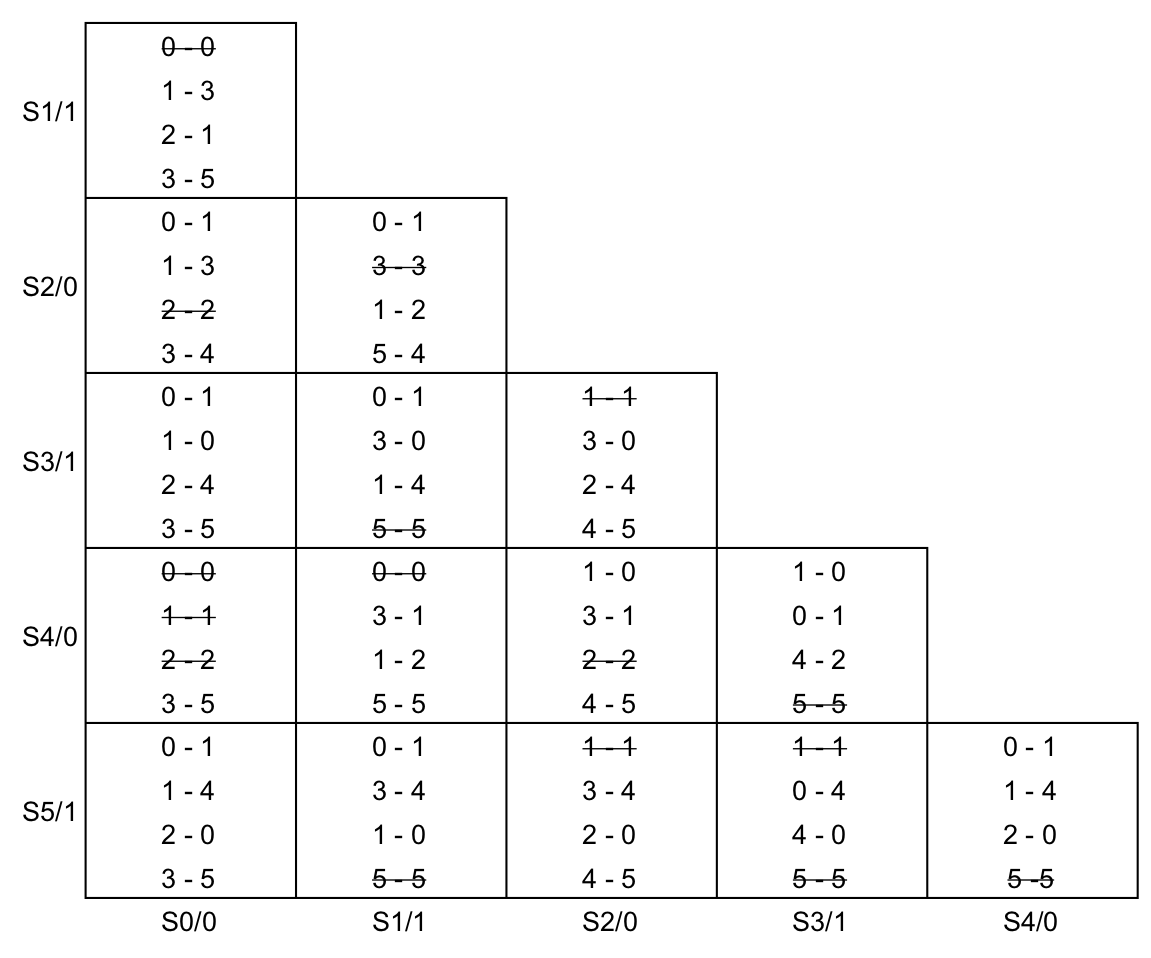
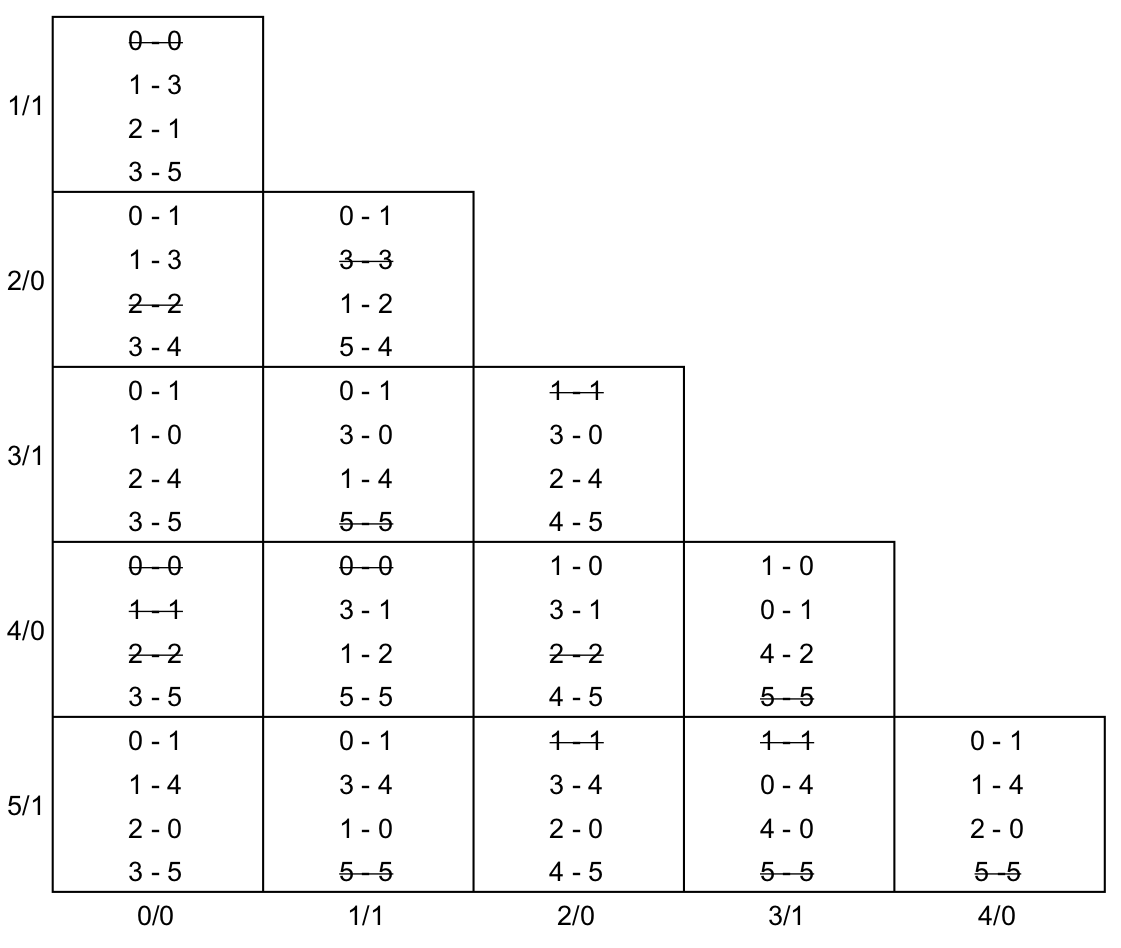
Improvement of FSM minimization.

diff --git a/content/digitais/fsmStateReduction.md b/content/digitais/fsmStateReduction.md
@@ -1,6 +1,6 @@
 Title: Simplificação de FSM
 Date: 2018-09-25 14:22
-Modified: 2018-09-26 18:02
+Modified: 2018-09-26 22:49
 Category: sistemas digitais
 Tags: sistemas digitais, fsm, simplificação, otimização
 Slug: fsmstatereduction
@@ -266,7 +266,7 @@ Se fizermos a busca novamente, os estados S4 e S6 agora são equivalentes pois a
 <br/>
 O diagrama de transição de estados minimizado pode ser visto na figura ao lado. Os estados S7, S9, S10, S12, S13 e S14 são representados pelo Sa, S4 e S6 pelo Sb e S8 e S11 pelo Sc.
 
-O método de análise da tabela de transição de estados se baseia na busca exaustiva por estados equivalentes. É fácil perceber que, conforme a tabela cresce, ficará mais difícil visualizar os estados equivalentes.
+O método de análise da tabela de transição de estados se baseia na busca exaustiva por estados equivalentes. É fácil perceber que, conforme a tabela cresce, ficará mais difícil visualizar os estados equivalentes. Além disso, o método não garante a menor quantidade de estados possível pois é baseado em estados e não em grupos de estados (veja o primeiro exemplo da próxima seção).
 
 <div style="border: 0px; overflow: auto;width: 100%;"></div>
 
@@ -288,9 +288,13 @@ Quando estiver confortável com a construção da matriz, você poderá desenhá
 Após obter a tabela de implicação, devemos preencher as células. Cada célula terá $2^b$ linhas, onde $b$ é o número de bits da entrada. E.g. se a entrada for de 1 bit, cada célula tem 2 linhas; se a entrada for de 2 bits, cada célula tem 4 linhas. Cada linha da entrada corresponde às transições daqueles estados para aquela entrada.
 
 <img src='{filename}/images/sd/sdfsmoptconstcel.png' width="45%" align="right" style="padding-left:5%" />
-Na figura podemos ver o exemplo do preenchimento para duas células, ambas na linha do $S_3$ e coluna do $S_4$. Para simplificar o preenchimento, usamos somente o número do estado, mas sinta-se a vontade para escrever o nome completo (especialmente útil se os nomes dos estados não forem numerados). Na célula na esquerda na figura, a entrada tem 1 bit, portanto temos duas linhas, uma para a entrada 0 e outra para a entrada 1. Já na célula a direita na figura, a entrada tem 2 bits, portanto temos 4 linhas, para as entradas 00, 01, 10 e 11.
+Na figura podemos ver o exemplo do preenchimento para duas células, ambas na linha do S3 e coluna do S4. Para simplificar o preenchimento, usamos somente o número do estado, mas você pode escrever o nome completo do estado (especialmente útil se os nomes dos estados não forem numerados).
 
-Os números em cada linha correspondem a transição que o estado fará para cada entrada. No exemplo a esquerda na figura, podemos assumir que, para uma determinada entrada e estando em $S_3$ ou em $S_4$, a máquina transicionará para o estado $S_0$ ou $S_1$. Na mesma situação mas para a outra entrada, a máquina transicionará para o estado $S_2$ ou $S_3$. Mas como eu sei qual entrada? Não é preciso saber para qual entrada, apenas que as transições da mesma linha, separadas por `-`, são para a mesma entrada. De fato, alguns projetistas preferem ordenar as transições em ordem crescente para facilitar a busca por estados equivalentes. E.g. (linha superior / linha inferior) 3-2/1-2 é o mesmo que 1-2/2-3, mas ordenado. Fica a seu critério decidir a melhor forma de organizar sua tabela de implicação, mas lembre-se que cada linha corresponde a exatamente dois estados separados por `-`, para os quais a máquina de estados transicionará quando houver a mesma entrada.
+Na célula na esquerda na figura, a entrada tem 1 bit, portanto temos duas linhas, uma para a entrada 0 e outra para a entrada 1. Nesta célula, a máquina é de Mealy com saída de 1 bit, que pode ser vista representada nas transições.
+
+Já na célula a direita na figura, a entrada tem 2 bits, portanto temos 4 linhas para as entradas 00, 01, 10 e 11. A máquina representada é de Moore e também tem um bit só de saída, que nesse caso é representado no estado e não na transição.
+
+Os números em cada linha correspondem a transição que o estado fará para cada entrada (e à saída referente àquela transição no caso de uma máquina de Mealy). No exemplo a esquerda na figura, podemos assumir que, para uma determinada entrada e estando em S3 ou em S4, a máquina transicionará para o estado S0/0 ou S1/0 (note que em ambas as transições a saída é 0). Na mesma situação mas para a outra entrada, a máquina transicionará para o estado S2/0 ou S3/1. Mas como eu sei qual entrada? Não é preciso saber para qual entrada, apenas que as transições da mesma linha, separadas por `-`, são para a mesma entrada. De fato, alguns projetistas preferem ordenar as transições em ordem crescente para facilitar a busca por estados equivalentes. E.g. (linha superior / linha inferior) 3-2/1-2 é o mesmo que 1-2/2-3, mas ordenado. Fica a seu critério decidir a melhor forma de organizar sua tabela de implicação, mas lembre-se que cada linha corresponde a exatamente dois estados separados por `-`, para os quais a máquina de estados transicionará quando houver a mesma entrada.
 
 É de praxe também assinalar os estados que produzem saídas diferentes, pois eles não podem ser equivalentes. Neste caso, coloque uma `/` no índice de coluna e linha (caso a máquina for de Moore) ou na transição dentro da célula (caso a máquina for de Mealy). Isto ficará mais claro no exemplo.
 
@@ -313,44 +317,58 @@ Você não precisa analisar células onde todas as linhas tenham sido riscadas n
 
 Quando você terminar este processo, as células que você não eliminou representam **classes de equivalência**. Uma classe de equivalência é um grupo de estados que são equivalentes e, consequentemente, podem ser representados por um único estado. E.g. se a célula da linha 3 coluna 4 não foi eliminada, os estados S3 e S4 são equivalentes.
 
-## Exemplo 1/2
+## Exemplo 1/3 - Moore simples
 
-Suponha a mesma máquina de estados usada como exemplo no método de análise da tabela de transição de estados, mostrada na figura. Trata-se de uma máquina de Mealy que reconhece 0011 ou 1001 sem sobreposição.
+Este exemplo é de uma máquina de Moore que detecta uma paridade ímpar considerando todas as entradas que já passaram pela máquina. O diagrama e a tabela de transição de estados podem ser vistos abaixo:
 
-![FSM em forma de árvore]({filename}/images/sd/sdfsmopt2.png)
+<table class="tg" align="left">
+  <tr>
+    <th class="tg-baqh" colspan="3">Tabela E1</th>
+  </tr>
+  <tr>
+    <td class="tg-zlqz" rowspan="2">E.A.</td>
+    <td class="tg-zlqz" colspan="4">P.E.</td>
+  </tr>
+  <tr>
+    <td class="tg-zlqz">0</td>
+    <td class="tg-zlqz">1</td>
+  </tr>
+  <tr>
+    <td class="tg-baqh">A/0</td>
+    <td class="tg-baqh">A</td>
+    <td class="tg-baqh">B</td>
+  </tr>
+  <tr>
+    <td class="tg-baqh">B/1</td>
+    <td class="tg-baqh">B</td>
+    <td class="tg-baqh">C</td>
+  </tr>
+  <tr>
+    <td class="tg-baqh">C/0</td>
+    <td class="tg-baqh">C</td>
+    <td class="tg-baqh">B</td>
+  </tr>
+</table>
+<img src='{filename}/images/sd/sdfsmoptex1diag.png' width="13%" align="left" style="padding-left:5%; padding-right:5%"/>
+Tente minimizar esta máquina usando o método de análise da tabela de transição. É possível encontrar algum estado equivalente? Perceba que os estados A e C são equivalentes, mas não é possível perceber isto apenas com a tabela de transição de estados.
 
-A máquina tem 15 estados, portanto temos uma matriz 15x15. A tabela de implicação, já com os valores das transições preenchidos e com as transições s-s riscadas, pode ser vista na figura abaixo. Isto corresponde à construção da tabela de implicação e à execução do passo 1 do algoritmo.
+<div style="border: 0px; overflow: auto;width: 100%;"></div>
+<img src='{filename}/images/sd/sdfsmoptex1a.png' width="55%" align="right" style="padding-left:5%"/>
+Vamos construir a tabela de implicação para verificar. Na figura ao lado, podemos ver: (esquerda) a tabela de implicação construída e com os estados (note que é uma máquina de Moore, então as saídas são representadas nos estados); (meio) a tabela de implicação com as linhas de acordo com a tabela de transição de estados; e (direita) a versão com a linha B-B já riscada, pois para esta entrada, a máquina transiciona para o mesmo estado independententemente de qual estado esteja. Isto equivale à construção da tabela de implicação e à execução do primeiro passo do algoritmo.
 
-![Tabela exemplo 1 passo 1]({filename}/images/sd/sdfsmoptex1a.png)
+<div style="border: 0px; overflow: auto;width: 100%;"></div>
+<img src='{filename}/images/sd/sdfsmoptex1b.png' width="45%" align="left" style="padding-right:5%"/>
+No segundo passo eliminamos os estados que produzem saída diferentes, pois nunca poderão ser equivalentes. Isto pode ser visto à esquerda na figura ao lado (os estados eliminados foram destacados em cinza). Sobra a única célula a ser verificada, correspondente aos estados C/0-A/0. Esta célula tem uma linha riscada (que não precisa ser analisada) e uma linha que referencia A-C. A referência A-C aponta para a mesma célula que estamos analisando, a célula C/0-A/0. Como esta célula ainda não foi eliminada, nada resta a fazer e devemos continuar o algoritmo. Porém, não há mais células a serem analisadas, portanto o algoritmo terminou. Isso significa que a única célula que não foi eliminada será a nossa classe de equivalência, destacada em vermelho na tabela de implicação à direita.
 
-No passo 2, devemos eliminar as transições que produzem saídas diferentes. Note que esta é uma máquina de Mealy, então coloquei a saída na transição (e.g. nos estados S8 e S11, que são os que produzem saída, há transições na forma 0/1, indicando que esta transição produz saída 1). Quando não está especificada, assume-se que a saída é 0. Continuando o passo 2, devemos eliminar todas as células que contém uma transição s-t onde a saída de s é diferente da saída de t. Exemplo: a célula S14-S11 possui a segunda linha como 0/1-0, o que significa que, apesar de irem para o mesmo estado, uma produz saída 1 (0/1) e outra produz saída 0 (0/0, o /0 é implícito), portanto devemos eliminar esta célula toda. Isto pode ser visto na figura abaixo, onde as células eliminadas foram identificadas com fundo cinza.
+<div style="border: 0px; overflow: auto;width: 100%;"></div>
+<img src='{filename}/images/sd/sdfsmoptex1diagmin.png' width="13%" align="left" style="padding-right:5%"/>
+A célula indica que a classe de equivalência contém somente dois estados, o C/0 e o A/0. Para finalizar, montamos um novo diagrama de transição de estados com um estado chamado AC/0, em vermelho, representando a classe de equivalência encontrada. As transições são transportadas dos estados da classe de equivalência e, obviamente, são esperadas que sejam
 
-![Tabela exemplo 1 passo 2]({filename}/images/sd/sdfsmoptex1b.png)
-
-O passo 2 eliminou os estados que trivialmente não são equivalentes. Podemos então começar o passo 3 analisando cada célula. Eu comecei pela célula mais a direita inferior e continuei analisando para a esquerda. A célula S14-S13 não precisa ser analisada pois tem todas as transições riscadas. Idem para a célula S14-S12. Já a célula S14-S11 foi eliminada anteriormente e também não precisa ser analisada.
-
-A primeira célula que realmente precisa ser analisada é a S14-S6. Nesta célula, a transição 13-0 aponta para a a célula S13-S0, e a transição 14-0 para a célula S14-S0. Estas células alvo ainda indicam equivalência, então não fiz nada na célula em análise (S14-S6). Idem para S14-S5 e S14-S4.
-
-Já na célula S14-S3, encontrei uma referência à S8-S0, que já foi eliminado em um passo anterior. Isso significa que eu devo eliminar esta célula. Nesse ponto, percebi que a linha do S8 estava inteira eliminada, então eliminei na tabela todas as células que fazem referência a S8. Na figura abaixo, a célula em análise (S14-S3) está em amarelo, a célula referenciada que foi o motivo da eliminação (S8-S0) está com borda amarela, e as células que eu eliminei estão em amarelo escuro. Apesar de ter usado cores, todas estas células devem ser pintadas de cinza (quando estiver executando o algoritmo no papel, faça um X na célula toda).
-
-![Tabela exemplo 1 passo 3]({filename}/images/sd/sdfsmoptex1c.png)
-
-Se está lendo com cuidado, deve ter percebido que a eliminação feita na figura anterior eliminou o estado S3 inteiro. Isto significa que você pode eliminar todas as células que contém transições que referenciam o S3, pois ele não pode ser equivalente a nenhum outro estado. Se você continuar o algoritmo, terminará com a tabela de implicação abaixo, onde as células eliminadas estão em cinza.
-
-![Tabela exemplo 1 fim]({filename}/images/sd/sdfsmoptex1d.png)
-
-Com o algoritmo finalizado, podemos inferir os estados equivalentes observando as células que não foram eliminadas. A célula S6-S4 indica que estes dois estados são equivalentes. Similarmente, a coluna S7 indica que os estados S7, S9, S10, S12, S13 e S14 são todos equivalentes. Isso pode ser corroborado pelas colunas do S9, S10, S11, S12 e S13, que indicam também esta equivalência. Ainda, a célula S11-S8 indica que estes estados são equivalentes (note que eles produzem saída 1).
-
-Para facilitar a visualização, a figura abaixo traz as classes de equivalência coloridas. Para a mesma cor, os estados são equivalentes.
-
-![Tabela exemplo 1 colorida]({filename}/images/sd/sdfsmoptex1e.png)
-
-<img src='{filename}/images/sd/sdfsmopt3.png' width="45%" align="right" style="padding-left:5%" />
-Por último, devemos reconstruir o diagrama de transição de estados. Para cada classe de equivalência, criamos um estado novo. As transições e as saídas podem ser copiadas de qualquer um dos estados da classe, pois eles são equivalentes (para as mesmas entradas, produzem a mesma saída e transicionam para o mesmo estado). Note que este método agrupa os estados em classes, então a transição do Sb (que é composto por S4 e S6) que vai para o S9, por exemplo, deve ir para o estado Sa (que é composto por S7, S9, S10, S12, S13 e S14) pois esta é a classe de equivalência que contém o S9. O diagrama desta tabela é idêntico ao obtido usando o método de análise da tabela de transição de estados.
+Esta máquina tem a mesma funcionalidade que a anterior, porém tem um estado a menos. Este tipo de minimização não é possível usando a análise da tabela de transição de estados.
 
 <div style="border: 0px; overflow: auto;width: 100%;"></div>
 
-## Exemplo 2/2
+## Exemplo 2/3 - Moore com entrada de 2 bits
 A Tabela E2 é a tabela de transição de estados de uma máquina de Moore, com entrada de dois bits. Sua funcionalidade ou diagrama de transição de estados não importam neste momento, mas o diagrama equivalente pode ser visto na figura.
 
 <table class="tg" align="left">
@@ -414,7 +432,7 @@ A Tabela E2 é a tabela de transição de estados de uma máquina de Moore, com 
 
 <div style="border: 0px; overflow: auto;width: 100%;"></div>
 
-Nas tabelas abaixo podemos ver a tabela construída e com o passo 1 executado (esquerda) e após o passo 2 executado (direita).
+Nas tabelas abaixo podemos ver a tabela construída e com o passo 1 executado (esquerda) e após o passo 2 executado (direita). Note que, para minimizar o esforço em preencher a tabela e evitar poluí-la, eu eliminei o "S" e utilizei somente os índices dos estados.
 
 <img src='{filename}/images/sd/sdfsmoptex2a.png' width="50%" align="left" />
 <img src='{filename}/images/sd/sdfsmoptex2b.png' width="50%" align="right"/>
@@ -478,6 +496,52 @@ Pela tabela, podemos inferir que os estados S4 e S0 (Sa) são equivalentes entre
 
 <div style="border: 0px; overflow: auto;width: 100%;"></div>
 
+
+## Exemplo 3/3 - Mealy com 15 estados
+
+Suponha a mesma máquina de estados usada como exemplo no método de análise da tabela de transição de estados, mostrada na figura. Trata-se de uma máquina de Mealy que reconhece 0011 ou 1001 sem sobreposição.
+
+![FSM em forma de árvore]({filename}/images/sd/sdfsmopt2.png)
+
+A máquina tem 15 estados, portanto temos uma matriz 15x15. A tabela de implicação, já com os valores das transições preenchidos e com as transições s-s riscadas, pode ser vista na figura abaixo. Note que esta é uma máquina de Mealy, então coloquei a saída na transição (e.g. nos estados S8 e S11, que são os que produzem saída, há transições na forma 0/1, indicando que esta transição produz saída 1). Isto corresponde à construção da tabela de implicação e à execução do passo 1 do algoritmo.
+
+![Tabela exemplo 1 passo 1]({filename}/images/sd/sdfsmoptex3a.png)
+
+No passo 2, devemos eliminar as transições que produzem saídas diferentes, ou seja, devemos eliminar todas as células que contém uma transição s-t onde a saída de s é diferente da saída de t. Exemplo: a célula S14-S11 possui a segunda linha como 0/1-0, o que significa que, apesar de irem para o mesmo estado, uma produz saída 1 (0/1) e outra produz saída 0 (0/0), portanto devemos eliminar esta célula toda. Isto pode ser visto na figura abaixo, onde as células eliminadas foram identificadas com fundo cinza e a linha que foi o motivo da eliminação com cinza escuro.
+
+![Tabela exemplo 1 passo 2]({filename}/images/sd/sdfsmoptex3b.png)
+
+O passo 2 eliminou os estados que trivialmente não são equivalentes. Podemos então começar o passo 3 analisando cada célula. Eu comecei pela célula mais a direita inferior e continuei analisando para a esquerda. A célula S14-S13 não precisa ser analisada pois tem todas as transições riscadas. Idem para a célula S14-S12. Já a célula S14-S11 foi eliminada anteriormente e também não precisa ser analisada.
+
+A primeira célula que realmente precisa ser analisada é a S14-S6. Nesta célula, a transição 13-0 aponta para a a célula S13-S0, e a transição 14-0 para a célula S14-S0. Estas células alvo ainda indicam equivalência, então não fiz nada na célula em análise (S14-S6). Idem para S14-S5 e S14-S4.
+
+Já na célula S14-S3, encontrei uma referência à S8-S0, que já foi eliminado em um passo anterior. Isso significa que eu devo eliminar esta célula. Nesse ponto, percebi que a linha do S8 estava inteira eliminada, então eliminei na tabela todas as células que fazem referência a S8. Na figura abaixo, eliminei todas as células que faziam referência ao estado S8.
+
+![Tabela exemplo 1 passo 3]({filename}/images/sd/sdfsmoptex3c.png)
+
+Se está lendo com cuidado, deve ter percebido que a eliminação feita na figura anterior eliminou o estado S3 inteiro. Isto significa que você pode eliminar todas as células que contém transições que referenciam o S3, pois ele não pode ser equivalente a nenhum outro estado. Se você continuar o algoritmo, terminará com a tabela de implicação abaixo, onde as células eliminadas estão em cinza.
+
+![Tabela exemplo 1 eliminadas]({filename}/images/sd/sdfsmoptex3d.png)
+
+A única célula que ainda precisa de análise é a célula S6-S4. Esta célula referencia os estados S9-S13 na primeira linha e S10-S14 na segunda linha. Ambas as células S9-S13 e S10-S14 não foram eliminadas pois possuem todas as suas linhas riscadas, então não devemos fazer nada nesta célula. Como não há mais células a serem analisadas, o algoritmo terminou.
+
+Com o algoritmo finalizado, podemos inferir os estados equivalentes observando as células que não foram eliminadas. A célula S6-S4 indica que estes dois estados são equivalentes. Similarmente, a coluna S7 indica que os estados S7, S9, S10, S12, S13 e S14 são todos equivalentes. Isso pode ser corroborado pelas colunas do S9, S10, S11, S12 e S13, que indicam também esta equivalência. Ainda, a célula S11-S8 indica que estes estados são equivalentes (note que eles produzem saída 1).
+
+Para facilitar a visualização, a figura abaixo traz as classes de equivalência coloridas. Para a mesma cor, os estados são equivalentes.
+
+![Tabela exemplo 1 fim]({filename}/images/sd/sdfsmoptex3e.png)
+
+
+<img src='{filename}/images/sd/sdfsmopt3.png' width="45%" align="right" style="padding-left:5%" />
+Por último, devemos reconstruir o diagrama de transição de estados. Para cada classe de equivalência, criamos um estado novo. As transições e as saídas podem ser copiadas de qualquer um dos estados da classe, pois eles são equivalentes (para as mesmas entradas, produzem a mesma saída e transicionam para o mesmo estado). Note que este método agrupa os estados em classes, então a transição do Sb (que é composto por S4 e S6) que vai para o S9, por exemplo, deve ir para o estado Sa (que é composto por S7, S9, S10, S12, S13 e S14) pois esta é a classe de equivalência que contém o S9. O diagrama desta tabela é idêntico ao obtido usando o método de análise da tabela de transição de estados.
+
+<div style="border: 0px; overflow: auto;width: 100%;"></div>
+
+
+# Referências
 <p/>
 [1] DE VRIES, A. Finite automata: Behavior and synthesis. Elsevier, 2014.  
-[2] KAM, Timothy et al. Synthesis of finite state machines: functional optimization. Springer Science & Business Media, 2013.
+[2] KAM, Timothy et al. Synthesis of finite state machines: functional optimization. Springer Science &
+Business Media, 2013.
+
+Algumas partes dos exemplos foram adaptados de apresentações do [Prof. Randy H. Katz](http://www-inst.eecs.berkeley.edu/~cs150/sp00/classnotes/katz-ch9-mod.pdf) e da disciplina [CSE370, Lecture 22](https://courses.cs.washington.edu/courses/cse370/09wi/LectureSlides/22-Minimization.pdf).

diff --git a/content/vhdl/entidade.md b/content/vhdl/entidade.md
@@ -1,13 +1,12 @@
 Title: Entidade
 Date: 2018-09-21 14:37
-Modified: 2018-09-21 14:37
+Modified: 2018-09-26 18:53
 Category: vhdl
 Tags: vhdl, basic
 Slug: vhdlentity
 Lang: pt_BR
 Authors: Bruno Albertini
 Summary: Entidades em VHDL.
-<!-- Status: draft -->
 
 Toda descrição em VHDL segue um padrão base de uma entidade e uma arquitetura. Neste artigo, explicarei como funciona a entidade.
 
